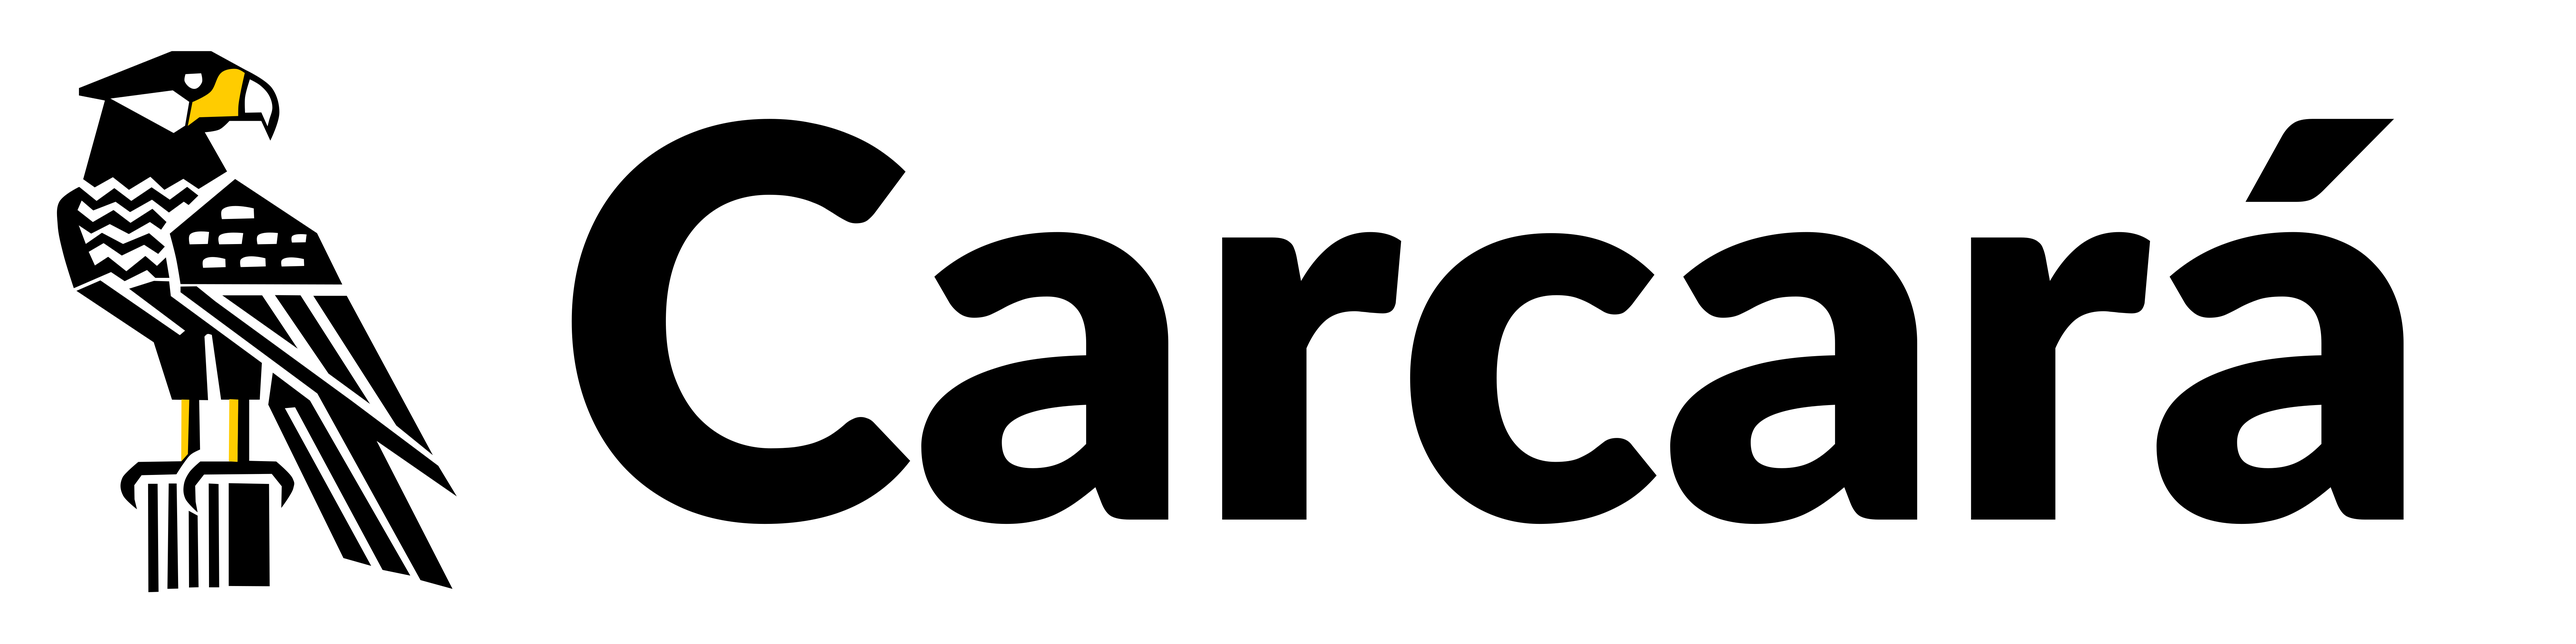
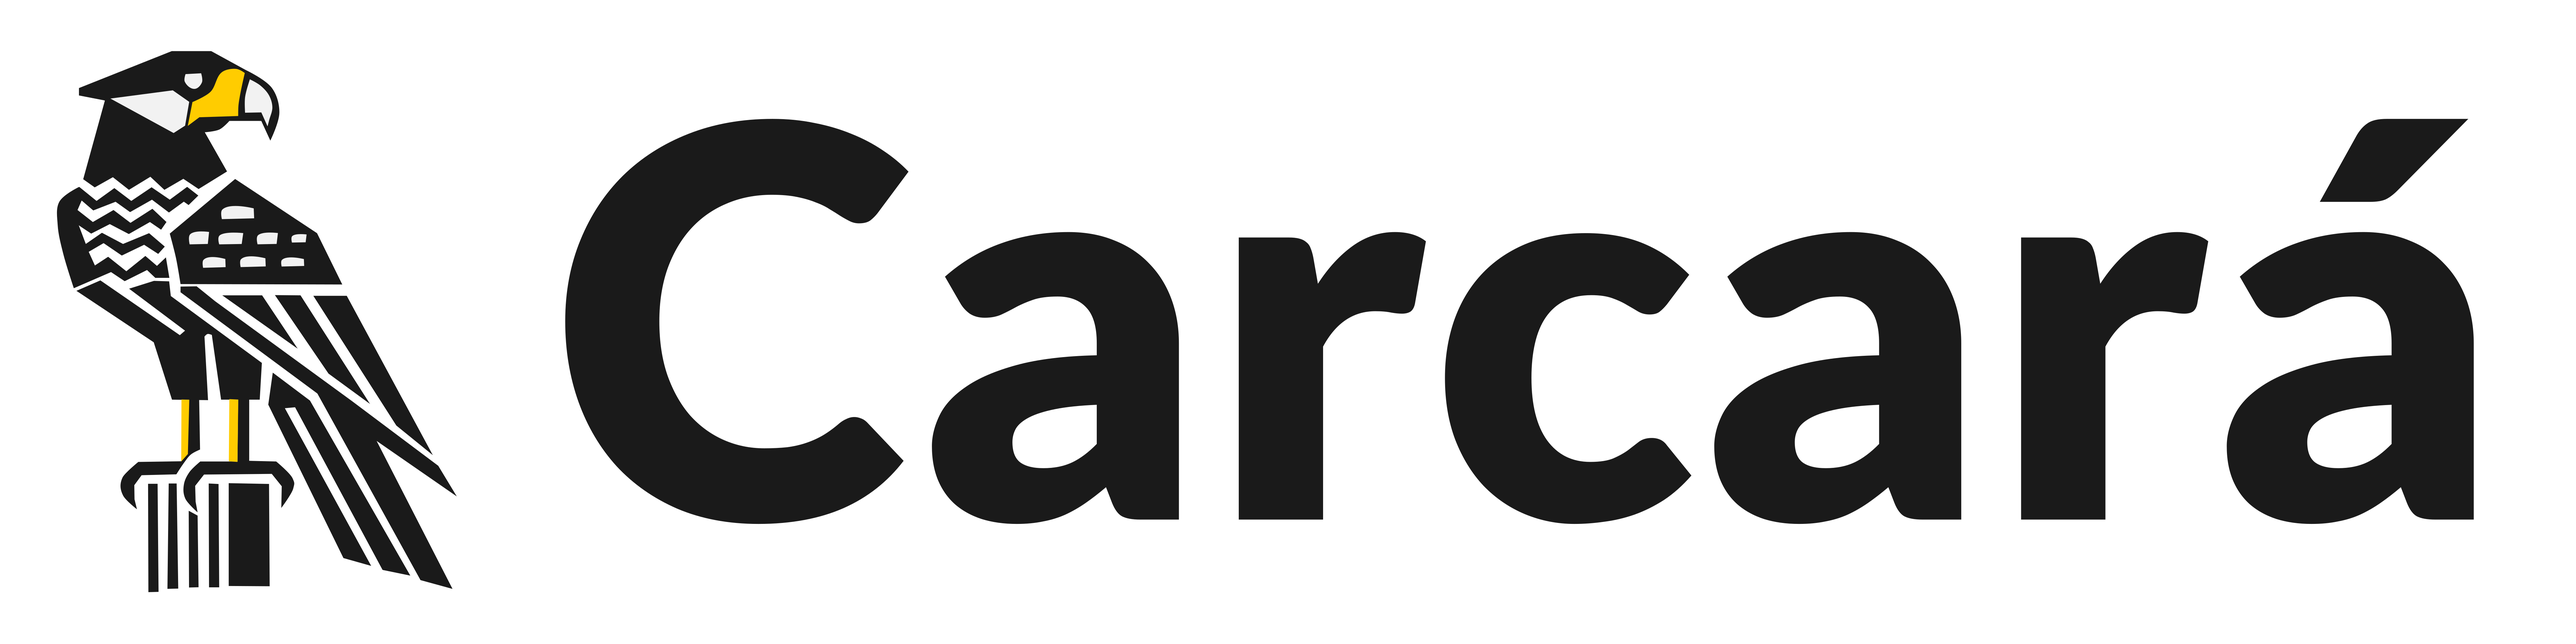
v26.4.32

Changed region(s): [[0.2188, 0.186, 0.9688, 0.837], [0.0, 0.062, 0.1875, 0.93], [0.875, 0.186, 0.9688, 0.31]]

diff --git a/docs/source/conf.py b/docs/source/conf.py
@@ -44,8 +44,8 @@ html_theme = 'furo'                 # 'sphinx_rtd_theme', 'renku', 'shibuya'
 html_static_path = ['_static']
 
 html_theme_options = {
-    "light_logo": "menu_light.png", # arquivo em docs/source/_static/
-    "dark_logo": "menu_dark.png"   # arquivo em docs/source/_static/
+    "light_logo": "icon.png", # arquivo em docs/source/_static/
+    "dark_logo": "icon.png"   # arquivo em docs/source/_static/
 }
 
 html_favicon = "_static/favicon.png"

diff --git a/src/carcara/_version.py b/src/carcara/_version.py
@@ -1,1 +1,1 @@
-__version__ = "26.4.31"
+__version__ = "26.4.32"
